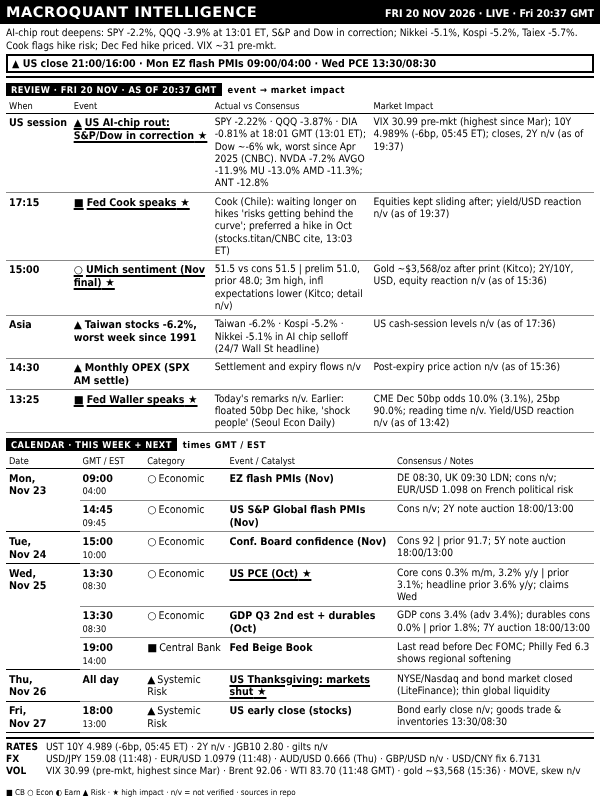
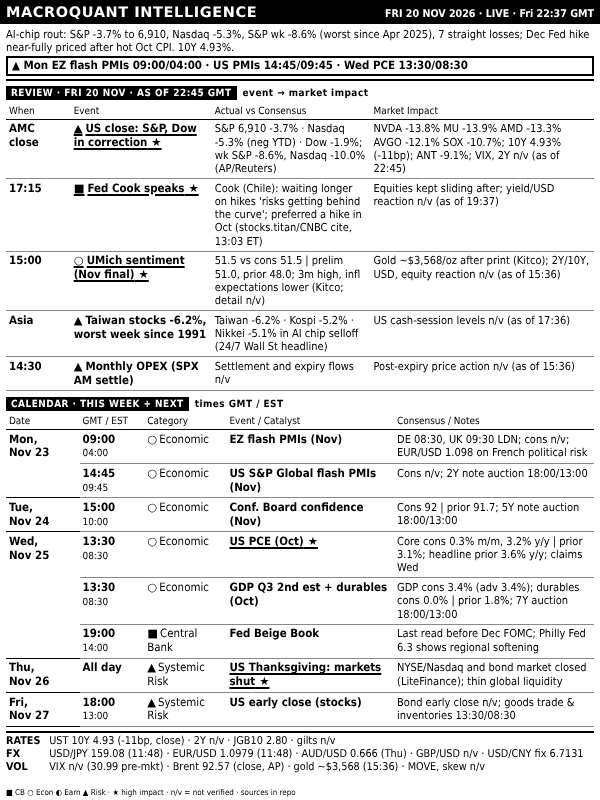
dashboard: FRI 20 NOV 2026 LIVE 22:45
Claude-Session: https://claude.ai/code/session_016SJqa5tJ3CYd1nR16XnBMD

diff --git a/out/dashboard.html b/out/dashboard.html
@@ -38,12 +38,12 @@ table.bd{border-collapse:collapse;width:100%;table-layout:fixed;margin-top:1px}
 </style></head><body>
 <div id="root">
  <div class="hdr"><span class="t">MACROQUANT INTELLIGENCE</span>
-  <span class="r">FRI 20 NOV 2026 · LIVE · Fri 20:37 GMT</span></div>
- <div class="ban"><div class="rg">AI-chip rout deepens: SPY -2.2%, QQQ -3.9% at 13:01 ET, S&amp;P and Dow in correction; Nikkei -5.1%, Kospi -5.2%, Taiex -5.7%. Cook flags hike risk; Dec Fed hike priced. VIX ~31 pre-mkt.</div><div class="al">▲ US close 21:00/16:00 · Mon EZ flash PMIs 09:00/04:00 · Wed PCE 13:30/08:30</div></div>
- <div class="sl"><span>REVIEW · FRI 20 NOV · AS OF 20:37 GMT</span>event → market impact</div><table class="bd rv"><colgroup><col style="width:11%"><col style="width:24%"><col style="width:27%"><col></colgroup><tr><th>When</th><th>Event</th><th>Actual vs Consensus</th><th>Market Impact</th></tr><tr class="h"><td class="tm"><b>US session</b></td><td class="ev"><i>▲</i>US AI-chip rout: S&amp;P/Dow in correction</td><td class="ac">SPY -2.22% · QQQ -3.87% · DIA -0.81% at 18:01 GMT (13:01 ET); Dow ~-6% wk, worst since Apr 2025 (CNBC). NVDA -7.2% AVGO -11.9% MU -13.0% AMD -11.3%; ANT -12.8%</td><td class="nt">VIX 30.99 pre-mkt (highest since Mar); 10Y 4.989% (-6bp, 05:45 ET); closes, 2Y n/v (as of 19:37)</td></tr><tr class="h"><td class="tm"><b>17:15</b></td><td class="ev"><i>■</i>Fed Cook speaks</td><td class="ac">Cook (Chile): waiting longer on hikes 'risks getting behind the curve'; preferred a hike in Oct (stocks.titan/CNBC cite, 13:03 ET)</td><td class="nt">Equities kept sliding after; yield/USD reaction n/v (as of 19:37)</td></tr><tr class="h"><td class="tm"><b>15:00</b></td><td class="ev"><i>○</i>UMich sentiment (Nov final)</td><td class="ac">51.5 vs cons 51.5 | prelim 51.0, prior 48.0; 3m high, infl expectations lower (Kitco; detail n/v)</td><td class="nt">Gold ~$3,568/oz after print (Kitco); 2Y/10Y, USD, equity reaction n/v (as of 15:36)</td></tr><tr><td class="tm"><b>Asia</b></td><td class="ev"><i>▲</i>Taiwan stocks -6.2%, worst week since 1991</td><td class="ac">Taiwan -6.2% · Kospi -5.2% · Nikkei -5.1% in AI chip selloff (24/7 Wall St headline)</td><td class="nt">US cash-session levels n/v (as of 17:36)</td></tr><tr><td class="tm"><b>14:30</b></td><td class="ev"><i>▲</i>Monthly OPEX (SPX AM settle)</td><td class="ac">Settlement and expiry flows n/v</td><td class="nt">Post-expiry price action n/v (as of 15:36)</td></tr><tr class="h"><td class="tm"><b>13:25</b></td><td class="ev"><i>■</i>Fed Waller speaks</td><td class="ac">Today's remarks n/v. Earlier: floated 50bp Dec hike, 'shock people' (Seoul Econ Daily)</td><td class="nt">CME Dec 50bp odds 10.0% (3.1%), 25bp 90.0%; reading time n/v. Yield/USD reaction n/v (as of 13:42)</td></tr></table>
+  <span class="r">FRI 20 NOV 2026 · LIVE · Fri 22:37 GMT</span></div>
+ <div class="ban"><div class="rg">AI-chip rout: S&amp;P -3.7% to 6,910, Nasdaq -5.3%, S&amp;P wk -8.6% (worst since Apr 2025), 7 straight losses; Dec Fed hike near-fully priced after hot Oct CPI. 10Y 4.93%.</div><div class="al">▲ Mon EZ flash PMIs 09:00/04:00 · US PMIs 14:45/09:45 · Wed PCE 13:30/08:30</div></div>
+ <div class="sl"><span>REVIEW · FRI 20 NOV · AS OF 22:45 GMT</span>event → market impact</div><table class="bd rv"><colgroup><col style="width:11%"><col style="width:24%"><col style="width:27%"><col></colgroup><tr><th>When</th><th>Event</th><th>Actual vs Consensus</th><th>Market Impact</th></tr><tr class="h"><td class="tm"><b>AMC close</b></td><td class="ev"><i>▲</i>US close: S&amp;P, Dow in correction</td><td class="ac">S&amp;P 6,910 -3.7% · Nasdaq -5.3% (neg YTD) · Dow -1.9%; wk S&amp;P -8.6%, Nasdaq -10.0% (AP/Reuters)</td><td class="nt">NVDA -13.8% MU -13.9% AMD -13.3% AVGO -12.1% SOX -10.7%; 10Y 4.93% (-11bp); ANT -9.1%; VIX, 2Y n/v (as of 22:45)</td></tr><tr class="h"><td class="tm"><b>17:15</b></td><td class="ev"><i>■</i>Fed Cook speaks</td><td class="ac">Cook (Chile): waiting longer on hikes 'risks getting behind the curve'; preferred a hike in Oct (stocks.titan/CNBC cite, 13:03 ET)</td><td class="nt">Equities kept sliding after; yield/USD reaction n/v (as of 19:37)</td></tr><tr class="h"><td class="tm"><b>15:00</b></td><td class="ev"><i>○</i>UMich sentiment (Nov final)</td><td class="ac">51.5 vs cons 51.5 | prelim 51.0, prior 48.0; 3m high, infl expectations lower (Kitco; detail n/v)</td><td class="nt">Gold ~$3,568/oz after print (Kitco); 2Y/10Y, USD, equity reaction n/v (as of 15:36)</td></tr><tr><td class="tm"><b>Asia</b></td><td class="ev"><i>▲</i>Taiwan stocks -6.2%, worst week since 1991</td><td class="ac">Taiwan -6.2% · Kospi -5.2% · Nikkei -5.1% in AI chip selloff (24/7 Wall St headline)</td><td class="nt">US cash-session levels n/v (as of 17:36)</td></tr><tr><td class="tm"><b>14:30</b></td><td class="ev"><i>▲</i>Monthly OPEX (SPX AM settle)</td><td class="ac">Settlement and expiry flows n/v</td><td class="nt">Post-expiry price action n/v (as of 15:36)</td></tr></table>
  <div class="sl"><span>CALENDAR · THIS WEEK + NEXT</span>times GMT / EST</div>
  <table class="bd"><colgroup><col style="width:12.5%"><col style="width:11%"><col style="width:14%"><col style="width:28.5%"><col></colgroup><tr><th>Date</th><th>GMT / EST</th><th>Category</th><th>Event / Catalyst</th><th>Consensus / Notes</th></tr><tr class="g0"><td class="dt" rowspan="2">Mon,<br>Nov&nbsp;23</td><td class="tm"><b>09:00</b><span>04:00</span></td><td class="ct"><i>○</i>Economic</td><td class="ev">EZ flash PMIs (Nov)</td><td class="nt">DE 08:30, UK 09:30 LDN; cons n/v; EUR/USD 1.098 on French political risk</td></tr><tr class=""><td class="tm"><b>14:45</b><span>09:45</span></td><td class="ct"><i>○</i>Economic</td><td class="ev">US S&amp;P Global flash PMIs (Nov)</td><td class="nt">Cons n/v; 2Y note auction 18:00/13:00</td></tr><tr class="g0"><td class="dt" rowspan="1">Tue,<br>Nov&nbsp;24</td><td class="tm"><b>15:00</b><span>10:00</span></td><td class="ct"><i>○</i>Economic</td><td class="ev">Conf. Board confidence (Nov)</td><td class="nt">Cons 92 | prior 91.7; 5Y note auction 18:00/13:00</td></tr><tr class="g0 h"><td class="dt" rowspan="3">Wed,<br>Nov&nbsp;25</td><td class="tm"><b>13:30</b><span>08:30</span></td><td class="ct"><i>○</i>Economic</td><td class="ev">US PCE (Oct)</td><td class="nt">Core cons 0.3% m/m, 3.2% y/y | prior 3.1%; headline prior 3.6% y/y; claims Wed</td></tr><tr class=""><td class="tm"><b>13:30</b><span>08:30</span></td><td class="ct"><i>○</i>Economic</td><td class="ev">GDP Q3 2nd est + durables (Oct)</td><td class="nt">GDP cons 3.4% (adv 3.4%); durables cons 0.0% | prior 1.8%; 7Y auction 18:00/13:00</td></tr><tr class=""><td class="tm"><b>19:00</b><span>14:00</span></td><td class="ct"><i>■</i>Central Bank</td><td class="ev">Fed Beige Book</td><td class="nt">Last read before Dec FOMC; Philly Fed 6.3 shows regional softening</td></tr><tr class="g0 h"><td class="dt" rowspan="1">Thu,<br>Nov&nbsp;26</td><td class="tm"><b>All day</b></td><td class="ct"><i>▲</i>Systemic Risk</td><td class="ev">US Thanksgiving: markets shut</td><td class="nt">NYSE/Nasdaq and bond market closed (LiteFinance); thin global liquidity</td></tr><tr class="g0"><td class="dt" rowspan="1">Fri,<br>Nov&nbsp;27</td><td class="tm"><b>18:00</b><span>13:00</span></td><td class="ct"><i>▲</i>Systemic Risk</td><td class="ev">US early close (stocks)</td><td class="nt">Bond early close n/v; goods trade &amp; inventories 13:30/08:30</td></tr></table>
- <div class="lv"><div><b>RATES</b>UST 10Y 4.989 (-6bp, 05:45 ET) · 2Y n/v · JGB10 2.80 · gilts n/v</div><div><b>FX</b>USD/JPY 159.08 (11:48) · EUR/USD 1.0979 (11:48) · AUD/USD 0.666 (Thu) · GBP/USD n/v · USD/CNY fix 6.7131</div><div><b>VOL</b>VIX 30.99 (pre-mkt, highest since Mar) · Brent 92.06 · WTI 83.70 (11:48 GMT) · gold ~$3,568 (15:36) · MOVE, skew n/v</div></div>
+ <div class="lv"><div><b>RATES</b>UST 10Y 4.93 (-11bp, close) · 2Y n/v · JGB10 2.80 · gilts n/v</div><div><b>FX</b>USD/JPY 159.08 (11:48) · EUR/USD 1.0979 (11:48) · AUD/USD 0.666 (Thu) · GBP/USD n/v · USD/CNY fix 6.7131</div><div><b>VOL</b>VIX n/v (30.99 pre-mkt) · Brent 92.57 (close, AP) · gold ~$3,568 (15:36) · MOVE, skew n/v</div></div>
 </div>
 <div class="foot">■ CB ○ Econ ◐ Earn ▲ Risk · ★ high impact · n/v = not verified · sources in repo</div>
 </body></html>
